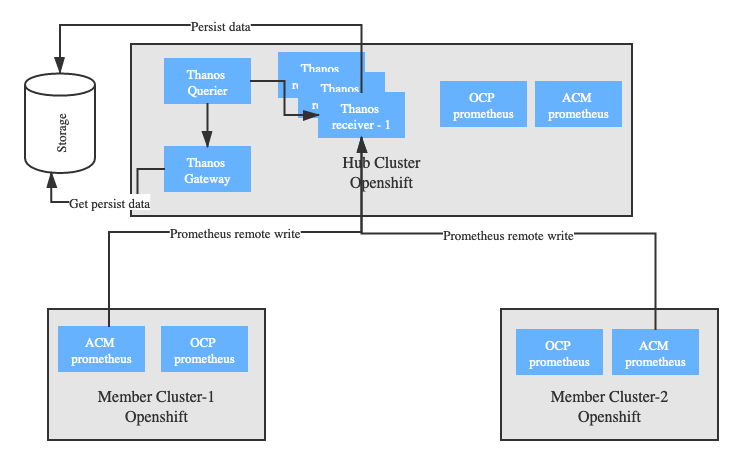
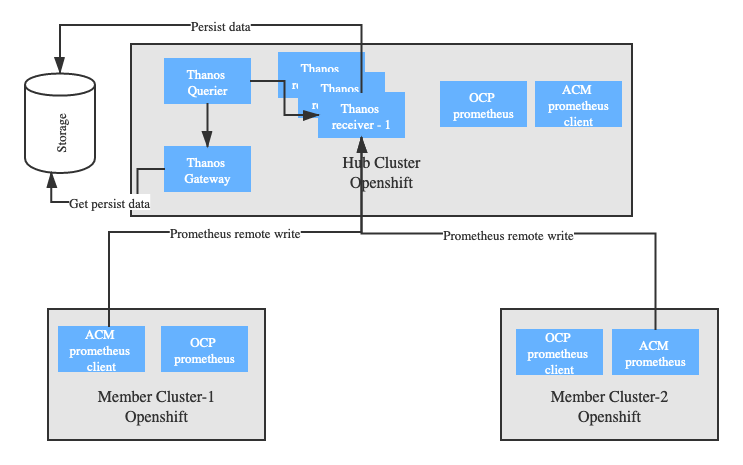
Update

Changed region(s): [[0.7429, 0.1806, 0.8358, 0.271], [0.712, 0.6925, 0.8048, 0.8129], [0.0929, 0.6925, 0.1857, 0.8129]]

diff --git a/monitor-arch.md b/monitor-arch.md
@@ -44,10 +44,9 @@ thanos-querier-8565b4dc6-jrsw2                 4/4     Running   0          3d11
 thanos-querier-8565b4dc6-nccw8                 4/4     Running   0          13d
 ```
 
-Propose to deploy the seperated promethues in `openshift-user-workload-monitoring` namespace for ACM, because: 
+Propose to deploy the promethues client in `openshift-user-workload-monitoring` namespace for ACM. the promethues client is reponsible for collecting acm required data, including application monitor data, etc.
 
-- The OCP Grafana does not allow the user to modify or create dashbaords while we have requirements allows the user to create/import dashboards and supports the dynamic creation of dashboards by CR or by the ACM application lifecycle componentry.
-- Each dashboard pulls from a different source Prometheus that are configured in slightly different ways to scrape configuration from target workloads.
+Propose to deploy the grafana in `openshift-user-workload-monitoring` namespace for ACM. The OCP Grafana does not allow the user to modify or create dashbaords while we have requirements allows the user to create/import dashboards and supports the dynamic creation of dashboards by CR or by the ACM application lifecycle componentry.
 
 ### Architecture
 
